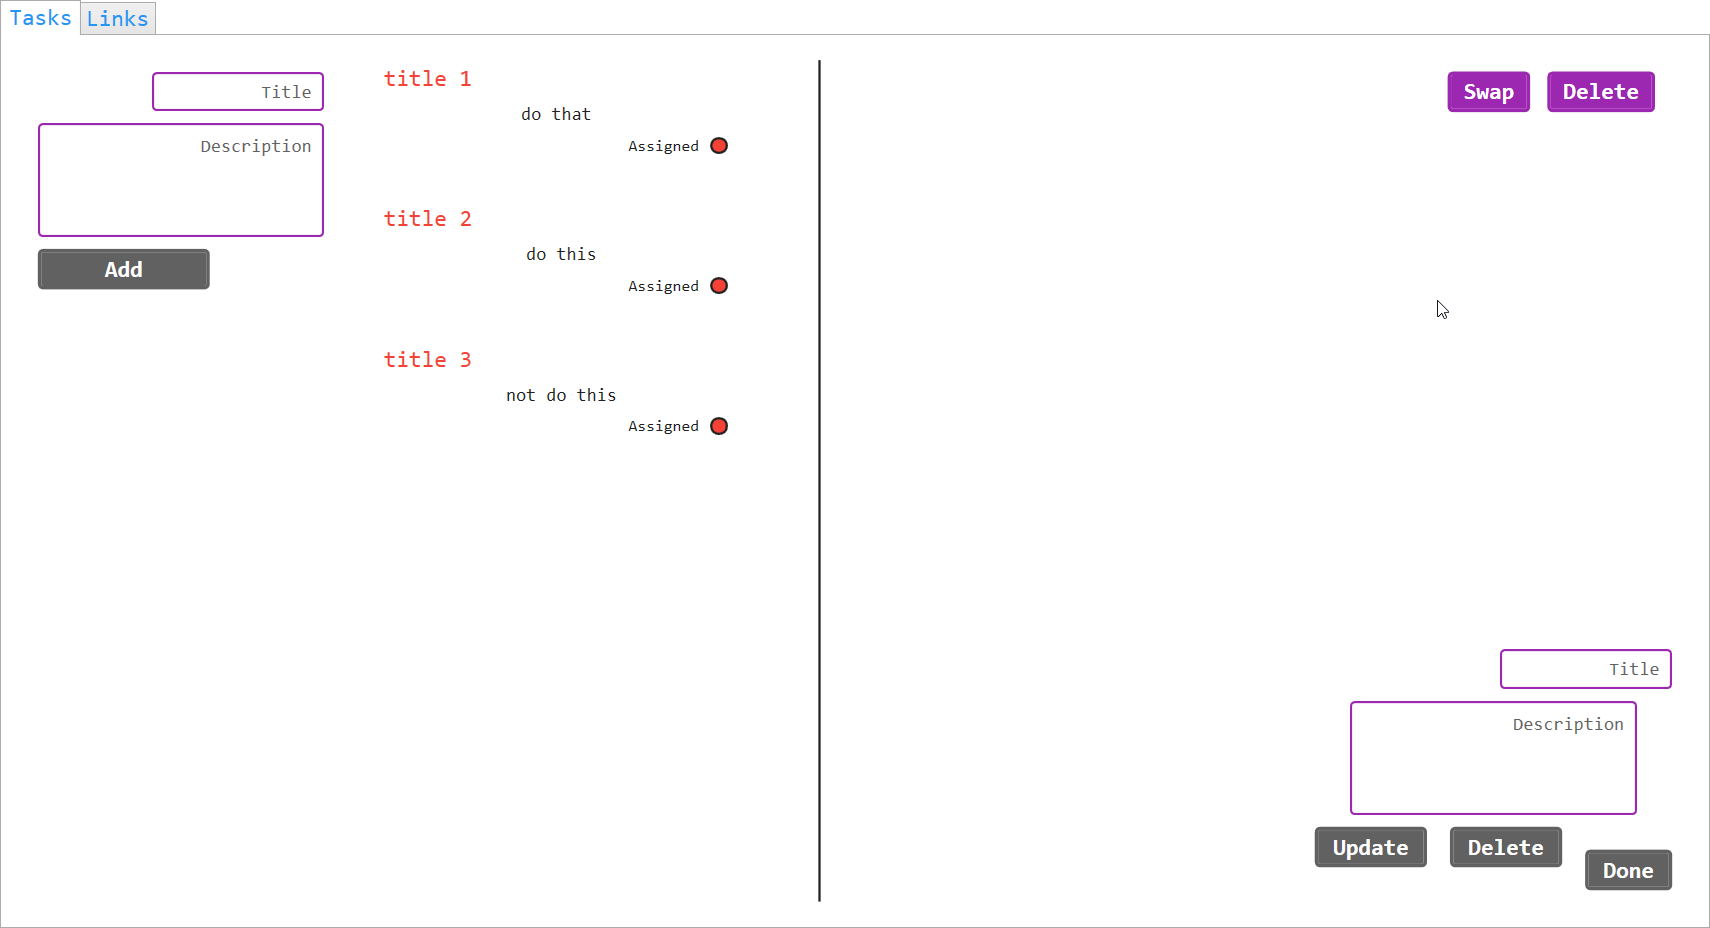
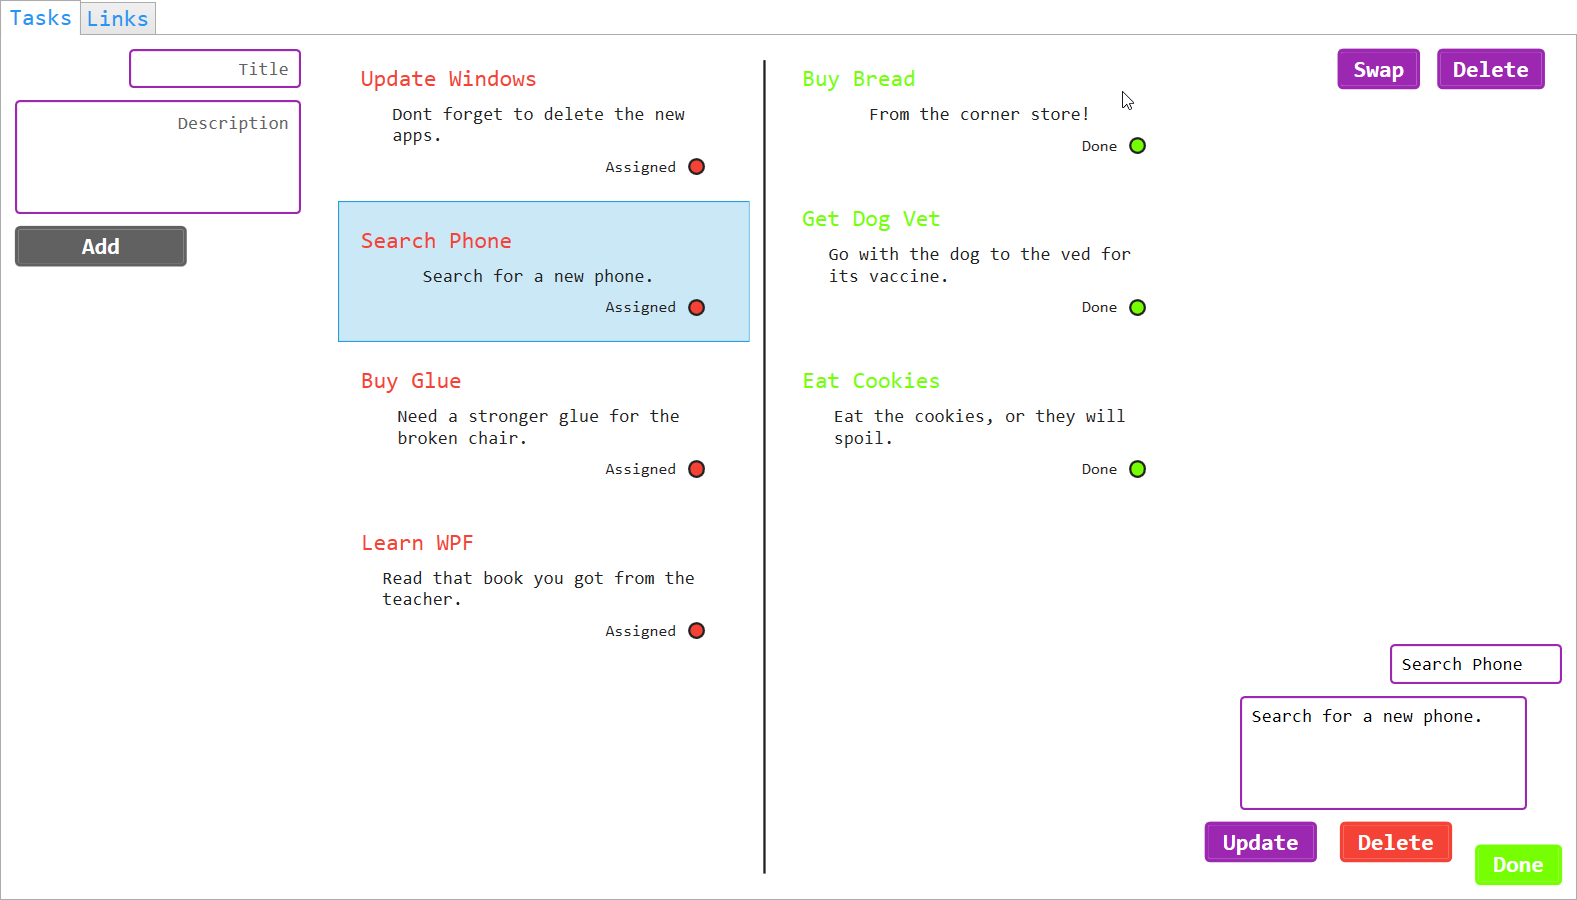
prev

diff --git a/src/TaskDoTo/Controls/TaskTabControl.xaml b/src/TaskDoTo/Controls/TaskTabControl.xaml
@@ -17,7 +17,7 @@
         <Grid Grid.Column="0">
             <local:TaskItemControl
                 x:Name="CreateTask"
-                Margin="30, 30, 30, 0"/>
+                Margin="10, 10, 30, 0"/>
         </Grid>
 
         <ListView x:Name="AssignedTasks"
@@ -29,7 +29,7 @@
         <Rectangle Grid.Column="2"
                    Width="2"
                    Fill="{StaticResource BlackBrush}"
-                   Margin="30, 20"/>
+                   Margin="10, 20"/>
 
         <ListView x:Name="DoneTasks"
                   Grid.Column="3"
@@ -39,7 +39,7 @@
         </ListView>
 
         <Grid Grid.Column="4">
-            <Grid Margin="30">
+            <Grid Margin="10">
                 <StackPanel Orientation="Horizontal"
                             HorizontalAlignment="Right"
                             VerticalAlignment="Top"

diff --git a/src/TaskDoTo/Styles/ResourceVariables.xaml b/src/TaskDoTo/Styles/ResourceVariables.xaml
@@ -5,7 +5,7 @@
 
 
     <!-- STATIC DOUBLE VALUES (WINDOW SIZE) -->
-    <sys:Double x:Key="WindowWidth">0.9</sys:Double>
+    <sys:Double x:Key="WindowWidth">0.95</sys:Double>
     <sys:Double x:Key="WindowHeight">0.9</sys:Double>
     <!-- STATIC DOUBLE VALUES (START LOCATION) -->
     <sys:Double x:Key="WindowTop">0.015</sys:Double>
